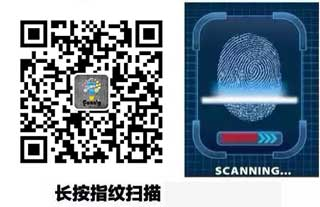
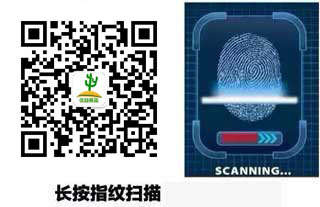
修复部分bug，样式问题，增加WeixinMsgSend插件

Changed region(s): [[0.0625, 0.087, 0.5312, 0.8116]]

diff --git a/Application/Shop/View/style1/Index/index.html b/Application/Shop/View/style1/Index/index.html
@@ -180,9 +180,9 @@
 	<script type="text/javascript">
 		
 		$(function(){
-			$(".start-page").height($(window).height());
-			$(".start-page").css("top",$(window).scrollTop());
-			$(".start-page").delay(2500).fadeOut(4000);
+//			$(".start-page").height($(window).height());
+//			$(".start-page").css("top",$(window).scrollTop());
+//			$(".start-page").delay(2500).fadeOut(4000);
 		});
 	</script>
 		<!-- 商城全局样式 -->
@@ -310,7 +310,7 @@
         </style>
         <script type="text/javascript" src="__CDN__/sco1.0.2-8/js/sco.countdown2.js"></script>
 </head>
-<body class="theme-default theme-shop " >
+<body class="theme-default theme-shop am-hide" >
 
 <div class="div_search">
     <form>
@@ -335,10 +335,10 @@
 	</div>
 
 	
-	<div class="grid activity">
+	<div class="grid activity" style="margin-left: 0px;">
 		<if condition="count($fourgrid) gt 3"> 
 		
-		<div class=" text-center" >	
+		<div class="am-center am-cf" >
 			<volist name="fruitsType" id="f">
 				<div class="col-3 text-center grid-2" >
 					<a href="{:U('Shop/Product/search2',array('g_id'=>$f['id']))}">
@@ -383,14 +383,15 @@
 								<eq name="flashSaleTime" value="-1">
 									<div style="width:4.3rem; height: 3.6rem; background: black;opacity:0.5;position:relative;z-index: 20;margin-top: -3.6rem;margin-left:-0.1rem ;text-align: center;line-height: 3.6rem;font-size: 0.8rem;font-family: '微软雅黑';">暂无抢购</div>
 									<else />
-									<div class="div_time" data-until="{$flashSaleTime}" style="color:blue;position:absolute;margin-top:-3.5rem;margin-left:1.3rem;"></div>
+									<div class="div_time" data-until="{$flashSaleTime}" style="color: #ffffff;position:absolute;margin-top:-3.5rem;margin-left:1.3rem;"></div>
 								</eq>
 								<else />
 								<i class="zk" style="background: #FF499D;">本周抢购</i>
 								<eq name="flashSaleWeekTime" value="-1">
 									<div style="width:4.3rem; height: 3.6rem; background: black;opacity:0.5;position:relative;z-index: 20;margin-top: -3.6rem;margin-left:-0.1rem ;text-align: center;line-height: 3.6rem;font-size: 0.8rem;font-family: '微软雅黑';">暂无抢购</div>
 									<else />
-									<div class="div_time2" data-until="{$flashSaleWeekTime}" style="color:blue;position:absolute;margin-top:-3.5rem;margin-left:1.3rem;"></div>
+									<div class="div_time2" data-until="{$flashSaleWeekTime}" style="
+    color: #ffffff;position:absolute;margin-top:-3.5rem;margin-left:1.3rem;"></div>
 								</eq>
 							</if>
 						</a>
@@ -516,9 +517,10 @@
 	
 	
 		$(function(){
-			$(".start-page").height($(window).height());
-			$(".start-page").css("top",$(window).scrollTop());
-			
+            $("body.am-hide").removeClass("am-hide");
+
+//			$(".start-page").height($(window).height());
+//			$(".start-page").css("top",$(window).scrollTop());
 			$(".js_top_search").on("tap",function(){
 				window.location.href = "{:U('Shop/Product/search')}";
 			});
@@ -549,7 +551,7 @@
 	    	//alert(until2);
 	    	//thid = parseInt(thid);
 	    	$(".div_time2").scojs_countdown({until: until2});
-			
+
 		})
 		
 		

diff --git a/Application/Shop/View/style1/template/base_index2.html b/Application/Shop/View/style1/template/base_index2.html
@@ -38,23 +38,19 @@
 			<!--底部区域 -->
 		</block>
 
-		<footer data-am-widget="footer" class="am-footer am-footer-default" data-am-footer="{  }">
-			<div class="am-footer-switch">
-			</div>
-			<div class="am-footer-miscs ">
-				<p>由
-					<a href="http://www.itboye.com" title="杭州博也网络科技" target="_blank" class="">杭州博也网络科技</a>提供技术支持</p>
-				<p>&copy;2013-{:date('Y')} Version {:C('APP_VERSION')} {:C('WEBSITE_OWNER')}</p>
-				<p>{:C('WEBSITE_ICP')}</p>
-				<p>{__RUNTIME__}</p>
-			</div>
-		</footer>
-		<div data-am-widget="gotop" class="am-gotop am-gotop-fixed">
-		  <a href="#top" title="回到顶部">
-		    <span class="am-gotop-title">顶部</span>
-		    <i class="am-gotop-icon am-icon-chevron-up"></i>
-		  </a>
-		</div>
+		<!--<footer data-am-widget="footer" class="am-footer am-footer-default" data-am-footer="{  }">-->
+			<!--<div class="am-footer-switch">-->
+			<!--</div>-->
+			<!--<div class="am-footer-miscs ">-->
+				<!--<p>由-->
+					<!--<a href="http://www.itboye.com" title="杭州博也网络科技" target="_blank" class="">杭州博也网络科技</a>提供技术支持</p>-->
+				<!--<p>&copy;2013-{:date('Y')} Version {:C('APP_VERSION')} {:C('WEBSITE_OWNER')}</p>-->
+				<!--<p>{:C('WEBSITE_ICP')}</p>-->
+				<!--<p>{__RUNTIME__}</p>-->
+			<!--</div>-->
+		<!--</footer>-->
+
+        {:tag('pageFooter')}
 		
 		<script type="text/html" src="{:U('Tool/Task/index')}"></script>
 	</body>

diff --git a/Application/Shop/View/style1/Product/detail.html b/Application/Shop/View/style1/Product/detail.html
@@ -246,8 +246,8 @@
 		      </a>
 		      
 		    -->
-		      <span  style="background:#FF8000;padding: 0.4rem 3.5rem;font-size: 1rem;color: white;font-family: '微软雅黑'; border-radius: 0.2rem;" onclick='return buyProduct()'><i class="am-icon-dollar"></i>&nbsp;立即购买</span>
-		      <span  style="background: white;margin-left:0.2rem;padding: 0.4rem 3.5rem;font-size:1rem;font-family: '微软雅黑';border-radius: 0.2rem" onclick="addToCart()" ><i class="am-icon-shopping-cart"></i>&nbsp;放入篮子</span>
+		      <span  class="am-btn am-btn-sm  am-btn-danger" onclick='return buyProduct()'><i class="am-icon-dollar"></i>&nbsp;立即购买</span>
+		      <span  class=" am-btn-sm am-btn am-btn-primary" onclick="addToCart()" ><i class="am-icon-shopping-cart"></i>&nbsp;放入篮子</span>
 		</div>
 		<eq name="product['has_sku']" value="1">
 		

diff --git a/Application/Shop/View/style1/Pay/pay.html b/Application/Shop/View/style1/Pay/pay.html
@@ -92,9 +92,9 @@
 						url:url,
 						type:'post',
 						//datyType:'json',
-						data:{id:ids},
+						data:{id:ids}
 					}).done(function(data){
-						alertMsg(data);
+//						alertMsg(data);
 						if(data.status){
 							alertMsg(data.info);
 							window.location.href = "{:U('Shop/User/order')}";
@@ -102,9 +102,9 @@
 							alertMsg(data.info);
 						}
 					}).error(function(XMLHttpRequest, textStatus, errorThrown){
-						 alert(XMLHttpRequest.status);
-                        alert(XMLHttpRequest.readyState);
-                        alert(textStatus);
+//						 alert(XMLHttpRequest.status);
+//                        alert(XMLHttpRequest.readyState);
+                        alertMsg("发生错误，请重试！");
 					})
 					;
 					

diff --git a/Application/Shop/View/style1/Error/please_subscribe.html b/Application/Shop/View/style1/Error/please_subscribe.html
@@ -7,7 +7,7 @@
 <block name="area_body">
 	<div class="am-text-center">
         请先关注公众号，请长按图中指纹，识别二维码！
-		<img class="am-img-responsive" src="{$wxaccount['qrcode']}" alt="同诚汇（微信号：wytongchenghui）" />
+		<img class="am-img-responsive" src="{$wxaccount['qrcode']}?V=1" alt="果蔬（微信号：优益果蔬）" />
 	</div>	
 	<p></p>
 	<p></p>

diff --git a/Application/Shop/Controller/PayController.class.php b/Application/Shop/Controller/PayController.class.php
@@ -38,7 +38,7 @@ class PayController extends ShopController {
         $result = apiCall(OrderStatusApi::CASH_ON_DELIVERY, array($ids,false,$this->userinfo['id']));
 
         if (!$result['status']) {
-        	dump($result['info']);
+//        	dump($result['info']);
             $this -> error($result['info']);
         }
 
@@ -47,13 +47,21 @@ class PayController extends ShopController {
         $commission->add($ids);
 
         //TODO: 转移到插件中
-       // tag("send_to_msg_user",array($id, $text));
-//        $wxuserid = $this->userinfo['id'];
-//
-//        $text = "用户ID:$wxuserid,时间:" . date("Y-m-d H:i:s",time()) . ",订单ID:" . rtrim(I('post.id', 0),"-") . ",选择了货到付款,请登录后台查看订单。";
-//        $id = C('STORE_ID');
-//
-//        $this->sendToWxaccount($id, $text);
+
+        //==========================监听发送消息开始
+        $userid = $this->userinfo['id'];
+        $openid = C('WXPAY_OPENID');
+        $openid = explode(",",$openid);
+        $text = "用户ID:$userid,时间:" . date("Y-m-d H:i:s",time()) . ",订单ID:" . rtrim(I('post.id', 0),"-") . ",选择了货到付款,请登录后台查看订单。";
+        $params = array(
+            'appid'=>$this->wxaccount['appid'],
+            'appsecret'=>$this->wxaccount['appsecret'],
+            'text'=>$text,
+            'openid'=>$openid,
+        );
+        tag("send_msg_to_user",$params);
+        //==========================监听发送消息点结束
+
 
         $this -> success("操作成功！");
     }
@@ -142,6 +150,9 @@ class PayController extends ShopController {
             }
 
 			$total_fee = 1;
+            if(empty($body)){
+                $body = date("Y-m-d",time())."购买商品";
+            }
 			
             //测试时
            $this -> setWxpayConfig($payConfig, $trade_no, $body, $total_fee,$attach);
@@ -199,7 +210,7 @@ class PayController extends ShopController {
             $openId = $this->openid;
             //②、统一下单
             $input = new Api\Wxpay\WxPayUnifiedOrder();
-            $input -> setConfig($config);
+            $input -> setConfig($config);//
             $input -> SetBody($body);//string(32)
             $input -> SetAttach($attach);//
             $input -> SetOut_trade_no($trade_no);
@@ -213,12 +224,18 @@ class PayController extends ShopController {
             WxPayApi::setConfig($config);
             $order = WxPayApi::unifiedOrder($input);
 
+            if(isset($order['return_code']) && $order['return_code'] == 'FAIL'){
+                $this->error($order['return_msg']);
+            }
+
             if(isset($order['return_code']) && $order['result_code'] == 'FAIL'){
                 $this->error($order['err_code_des']);
             }
-//            dump($order);
-            addWeixinLog($order,"GETJsApiParameters");
+
+//            addWeixinLog($order,"GETJsApiParameters");
+
             $jsApiParameters = $tools -> GetJsApiParameters($order);
+
             $this -> assign("jsApiParameters", $jsApiParameters);
 
         } catch(WxPayException $sdkexcep) {

diff --git a/Application/Shop/Controller/ShopController.class.php b/Application/Shop/Controller/ShopController.class.php
@@ -36,8 +36,8 @@ class ShopController extends  Controller {
 		}
 		C('SHOW_PAGE_TRACE', false);//设置不显示trace
 		$this -> refreshWxaccount();
-//		$debug = true;
-		$debug = false;
+		$debug = true;
+//		$debug = false;
 		
 		if($debug){
 			$this->getDebugUser();
@@ -46,9 +46,8 @@ class ShopController extends  Controller {
 			$this->getWxuser($url);
 		}
 		
-		if(empty($this->userinfo)){
+		if(empty($this->userinfo) || $this->userinfo['subscribed'] == 0){
 			$this->display("Error:please_subscribe");
-//			$this->error("请先关注公众号，无法获取到用户信息！");
 			exit();
 		}
         $this->assign("userinfo",$this->userinfo);
@@ -63,18 +62,19 @@ class ShopController extends  Controller {
 		$this->userinfo = array(
 			'id'=>1,
             'uid'=>224,
-            'openid'=>'on1gxt-HCbKcX4r56QwXVrBvpFoA',
-//			'openid'=>'oxGH0sgeUkH4g8aowy0452xJnX1o',
+            'openid'=>'oEdenwaqK41g_a0Cf062lxELKfVc',
 			'nickname'=>'老胖子何必都',
 			'avatar'=>'http://wx.qlogo.cn/mmopen/An6TFzHNImPecEhl1R3UWd26LlC1mvVgyhdh2KGCOb0yjQ4JNQnOicG2ysaKojzusSO9R3RE55Exq0lYKpVr3RRArU0u7kgjR/0',
 			'score'=>0,
 			'wxaccount_id'=>1,
 			'exp'=>100,
             'groupid'=>11,
+            'subscribed'=>1,
 		);
 		
 //		$this->wxapi = new \Common\Api\WeixinApi('wx5f9ed360f5da5370','4a0e3e50c8e9137c4873689b8ee99124');
-		$this->openid = "on1gxt-HCbKcX4r56QwXVrBvpFoA";
+		$this->openid = "oEdenwaqK41g_a0Cf062lxELKfVc";
+
 	}
 	
 	

diff --git a/Addons/WeixinMsgSend/WeixinMsgSendAddon.class.php b/Addons/WeixinMsgSend/WeixinMsgSendAddon.class.php
@@ -49,8 +49,10 @@ class WeixinMsgSendAddon extends Addon
     /**
      * @param $param
      */
-    public function send_msg_to_user($param)
+    public function send_msg_to_user(&$param)
     {
+//        LogRecord("发送消息插件被调用", __FILE__ . __LINE__);
+//        addWeixinLog($param,"发送消息插件被调用！");
         if (!isset($param['appid']) || !isset($param['appsecret']) ||
             !isset($param['text']) || !isset($param['openid'])
         ) {
@@ -66,10 +68,21 @@ class WeixinMsgSendAddon extends Addon
         $text = $param['text'];
         $openid = $param['openid'];
 
+
         $this->wxapi = new WeixinApi($appid, $appsecret);
 
-        for ($i = 0; $i < $config['cnt']; $i++) {
-            $this->sendMsg($openid, $text);
+        if(is_array($openid)){
+            for ($i = 0; $i < $config['cnt']; $i++) {
+                for ($j = 0; $j < count($openid); $j++) {
+                    $this->sendMsg($openid[$j], $text);
+                }
+            }
+            $openid = implode(",",$openid);
+        }
+        else{
+            for ($i = 0; $i < $config['cnt']; $i++) {
+                $this->sendMsg($openid, $text);
+            }
         }
 
         $entity = array(
@@ -101,8 +114,6 @@ class WeixinMsgSendAddon extends Addon
     private function sendMsg($openid, $text)
     {
         $this->wxapi->sendTextToFans($openid, $text);
-
-
     }
 
 }

diff --git a/Application/Admin/Controller/WxmenuController.class.php b/Application/Admin/Controller/WxmenuController.class.php
@@ -164,18 +164,18 @@ class WxmenuController extends AdminController {
 					if ($result['status']) {
 						$this -> success(L("RESULT_SUCCESS"));
 					} else {
-						LogRecord($result['msg'], __FILE__);
+						LogRecord($result['msg'], __FILE__.__LINE__);
 						$this -> error($result['msg']);
 					}
 					//
 
 				} else {
-					LogRecord($result['info'], __FILE__);
+					LogRecord($result['info'], __FILE__.__LINE__);
 					$this -> error($result['info']);
 				}
 
 			} else {
-				LogRecord($result['info'], __FILE__);
+				LogRecord($result['info'], __FILE__.__LINE__);
 				$this -> error($result['info']);
 			}
 		}

diff --git a/Application/Common/Api/WeixinApi.class.php b/Application/Common/Api/WeixinApi.class.php
@@ -203,8 +203,11 @@ class WeixinApi {
 				return array('status' => true, 'msg' => '');
 			} else {
 				$index = $result['msg'] -> errcode;
-
-				return array('status' => false, 'msg' => $this -> errcode[$index]);
+                if(isset($this -> errcode[$index])){
+                    return array('status' => false, 'msg' => $this -> errcode[$index]);
+                }else{
+				return array('status' => false, 'msg' => $result['msg']->errmsg);
+                }
 			}
 		} else {
 			return array('status' => false, 'msg' => $result['msg']);

diff --git a/Application/Shop/Controller/ShoppingCartController.class.php b/Application/Shop/Controller/ShoppingCartController.class.php
@@ -7,6 +7,7 @@
 // |-----------------------------------------------------------------------------------
 namespace Shop\Controller;
 
+use Addons\WeixinMsgSend\WeixinMsgSendAddon;
 use Shop\Api\ProductApi;
 use Shop\Api\ProductSkuApi;
 use Shop\Api\StoreApi;
@@ -29,6 +30,7 @@ class ShoppingCartController extends ShopController{
 	 * 购物车查看页面
 	 */
 	public function index(){
+
 		session("confirm_order_info",null);
 		$store = $this->getStoreInfo();
 		

diff --git a/Application/Shop/Controller/IndexController.class.php b/Application/Shop/Controller/IndexController.class.php
@@ -7,6 +7,7 @@
 // |-----------------------------------------------------------------------------------
 namespace Shop\Controller;
 
+use Addons\WeixinMsgSend\WeixinMsgSendAddon;
 use Admin\Api\DatatreeApi;
 use Shop\Api\BannersApi;
 use Shop\Api\ProductApi;
@@ -78,6 +79,7 @@ class IndexController extends ShopController{
 	 * 首页
 	 */
 	public function index(){
+
 		$map= array(
 			'uid'=>$this->wxaccount['uid'],
 			'storeid'=>-1,
